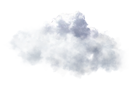
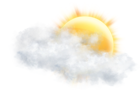
Added weather images, weather show correct image, on focus kill hide tooltip

diff --git a/Widgets/Weather/Weather.cs b/Widgets/Weather/Weather.cs
@@ -125,21 +125,19 @@ namespace Gadget.Widgets.Weather
 				var title = new List<string>();
 				var text = new List<string>();
 				var image = new List<Image>();
-				title.Add(_weatherData.DayForcast[1].Item1);
-				image.Add(GetImage(_weatherData.DayForcast[1].Item2, _weatherData.CurrentSunRiseDateTime, _weatherData.CurrentSunSetDateTime));
-				text.Add(_weatherData.DayForcast[1].Item3 + " " + _weatherData.DayForcast[1].Item4 + CELCIUS);
-				if (_weatherData.DayForcast.Count > 2)
-				{
-					title.Add(_weatherData.DayForcast[2].Item1);
-					image.Add(GetImage(_weatherData.DayForcast[2].Item2, _weatherData.CurrentSunRiseDateTime, _weatherData.CurrentSunSetDateTime));
-					text.Add(_weatherData.DayForcast[2].Item3 + " " + _weatherData.DayForcast[2].Item4 + CELCIUS);
-				}
-				if (_weatherData.DayForcast.Count > 3)
-				{
-					title.Add(_weatherData.DayForcast[3].Item1);
-					image.Add(GetImage(_weatherData.DayForcast[2].Item2, _weatherData.CurrentSunRiseDateTime, _weatherData.CurrentSunSetDateTime));
-					text.Add(_weatherData.DayForcast[3].Item3 + " " + _weatherData.DayForcast[3].Item4 + CELCIUS);
-				}
+
+                for (var i = 1; i <= 3; i++)
+                {
+                    if (_weatherData.DayForcast.Count <= i)
+                    {
+                        break;
+                    }
+
+                    title.Add(_weatherData.DayForcast[i].Item1);
+                    image.Add(GetImage(_weatherData.DayForcast[i].Item2, _weatherData.CurrentSunRiseDateTime, _weatherData.CurrentSunSetDateTime));
+                    text.Add(_weatherData.DayForcast[i].Item3 + " " + _weatherData.DayForcast[i].Item4 + CELCIUS);
+                }
+
 				toolTipWindow.MouseClick += delegate(object obj, MouseEventArgs a)
 				{
 					toolTipWindow.Hide();

diff --git a/Utilities/NativeMethods.cs b/Utilities/NativeMethods.cs
@@ -132,7 +132,8 @@ namespace Gadget.Utilities
 		public const int WM_WINDOWPOSCHANGING = 0x0046;
 		public const int WM_COMMAND = 0x0111;
 
-		public const int WM_NCMOUSELEAVE = 0x02A2;
+        public const int WM_KILLFOCUS = 0x8;
+        public const int WM_NCMOUSELEAVE = 0x02A2;
 		public const int WM_NCMOUSEMOVE = 0xA0;
 
 		public const int TPM_RIGHTBUTTON = 0x0002;

diff --git a/Gadget/ToolTip.cs b/Gadget/ToolTip.cs
@@ -208,7 +208,8 @@ namespace Gadget.Gadget
 						message.Result = (IntPtr)HitResult.Caption;
 					}
 					break;
-				case NativeMethods.WM_NCMOUSELEAVE:
+                case NativeMethods.WM_KILLFOCUS:
+                case NativeMethods.WM_NCMOUSELEAVE:
 					{
 						Hide();
 						message.Result = IntPtr.Zero;
